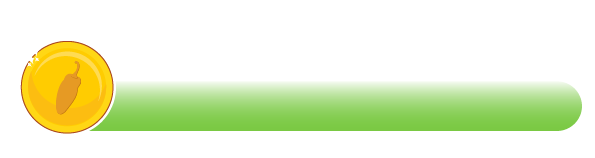
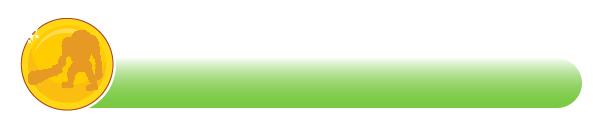
Endboss statusbar

Changed region(s): [[0.0304, 0.124, 1.0, 0.8682]]

diff --git a/models/status-bar-endboss.class.js b/models/status-bar-endboss.class.js
@@ -1,12 +1,12 @@
-class StatusBarKunai extends DrawableObject{
+class StatusBarEndboss extends DrawableObject{
 
     IMAGES =[
-        'img/7_statusbars/1_statusbar/3_statusbar_bottle/green/0.png',
-        'img/7_statusbars/1_statusbar/3_statusbar_bottle/green/20.png',
-        'img/7_statusbars/1_statusbar/3_statusbar_bottle/green/40.png',
-        'img/7_statusbars/1_statusbar/3_statusbar_bottle/green/60.png',
-        'img/7_statusbars/1_statusbar/3_statusbar_bottle/green/80.png',
-        'img/7_statusbars/1_statusbar/3_statusbar_bottle/green/100.png'
+        'img/7_statusbars/1_statusbar/1_statusbar_coin/green/0.png',
+        'img/7_statusbars/1_statusbar/1_statusbar_coin/green/20.png',
+        'img/7_statusbars/1_statusbar/1_statusbar_coin/green/40.png',
+        'img/7_statusbars/1_statusbar/1_statusbar_coin/green/60.png',
+        'img/7_statusbars/1_statusbar/1_statusbar_coin/green/80.png',
+        'img/7_statusbars/1_statusbar/1_statusbar_coin/green/100.png'
     ]
 
     percentage = 100;
@@ -14,10 +14,10 @@ class StatusBarKunai extends DrawableObject{
     constructor(){
         super();
         this.loadImages(this.IMAGES);
-        this.x = 0;
-        this.y = 100;
+        this.x = 520;
+        this.y = 10;
         this.width = 170;
-        this.height = 50;
+        this.height = 38;
         this.setPercentage(100);
     }
 

diff --git a/models/world.class.js b/models/world.class.js
@@ -8,6 +8,7 @@ class World {
     statusBarLife = new StatusBarLife();
     statusBarCoin = new StatusBarCoin();
     statusBarKunai = new StatusBarKunai();
+    statusBarEndboss = new StatusBarEndboss();
     throwableObjects = [];
     background_sound = new Audio('audio/forest-background.mp3');
     music = new Audio('audio/music.mp3');
@@ -82,6 +83,7 @@ class World {
         this.addToMap(this.statusBarLife);
         this.addToMap(this.statusBarCoin);
         this.addToMap(this.statusBarKunai);
+        this.addToMap(this.statusBarEndboss);
         this.ctx.translate(this.camera_x, 0);
 
         this.ctx.translate(-this.camera_x, 0);
@@ -100,9 +102,9 @@ class World {
         }
         mo.draw(this.ctx);
 
-        mo.drawFrame(this.ctx);
+        // mo.drawFrame(this.ctx);
 
-        mo.drawOffsetFrame(this.ctx);
+        // mo.drawOffsetFrame(this.ctx);
 
         if(mo.otherDirection) {
             this.flipImageBack(mo);

diff --git a/models/moveable-object.class.js b/models/moveable-object.class.js
@@ -66,15 +66,15 @@ class MovableObject extends DrawableObject{
             this.y + this.offset.y < mo.y + mo.offset.y + mo.height - mo.offset.height;
     }
 
-    // hit(){
+    hit(){
 
-    //     this.energy -= 5;
-    //     if(this.energy < 0){
-    //         this.energy = 0;
-    //     } else {
-    //         this.lastHit = new Date().getTime();
-    //     }
-    // }
+        this.energy -= 5;
+        if(this.energy < 0){
+            this.energy = 0;
+        } else {
+            this.lastHit = new Date().getTime();
+        }
+    }
 
     isDead() {
         return this.energy == 0;

diff --git a/models/drawable-object.class.js b/models/drawable-object.class.js
@@ -20,7 +20,7 @@ class DrawableObject {
     drawFrame(ctx){
         if(this instanceof Character || this instanceof Orc || this instanceof Endboss || this instanceof Coin){
         ctx.beginPath();
-        ctx.lineWidth = "5";
+        ctx.lineWidth = "3";
         ctx.strokeStyle = "red";
         ctx.rect(this.x, this.y, this.width, this.height);
         ctx.stroke();

diff --git a/index.html b/index.html
@@ -27,6 +27,7 @@
     <script src="./models/status-bar-life.class.js"></script>
     <script src="./models/status-bar-coin.class.js"></script>
     <script src="./models/status-bar-kunai.class.js"></script>
+    <script src="./models/status-bar-endboss.class.js"></script>
     <script src="./levels/level1.js"></script>
     <script src="./scripts/game.js"></script>
 </head>
